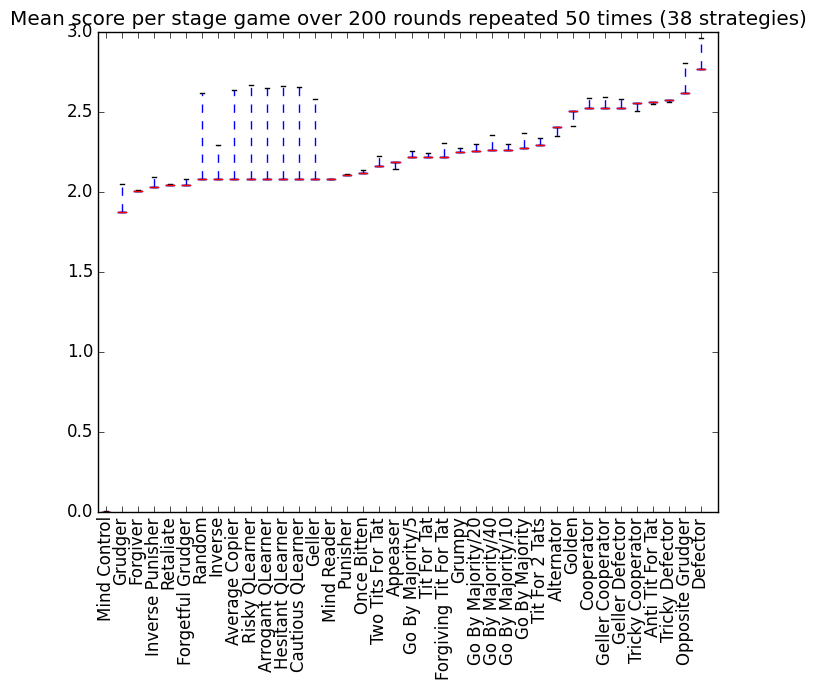
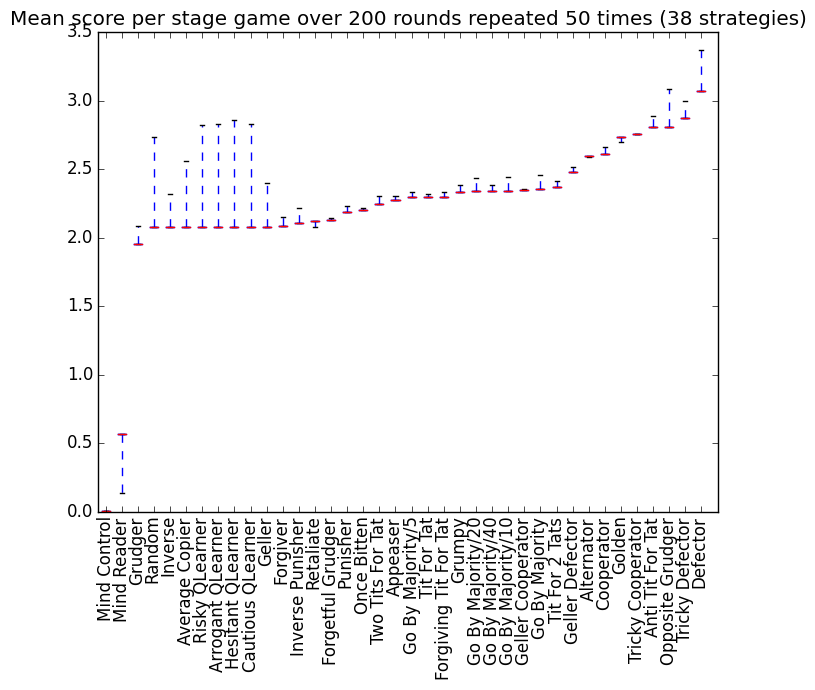
Fix so that mind control doesnt spoil everything

diff --git a/run_tournament.py b/run_tournament.py
@@ -24,7 +24,7 @@ def run_tournament(turns, repetitions, exclude_strategies, exclude_cheating, exc
         cheating_strategies = [strategy() for strategy in axelrod.cheating_strategies]
         graphs_to_plot['cheating_results.png'] = cheating_strategies
     if not exclude_all:
-        all_strategies = strategies + cheating_strategies
+        all_strategies = [strategy() for strategy in axelrod.strategies] + [strategy() for strategy in axelrod.cheating_strategies]
         graphs_to_plot['all_results'] = all_strategies
 
     for plot in graphs_to_plot:
